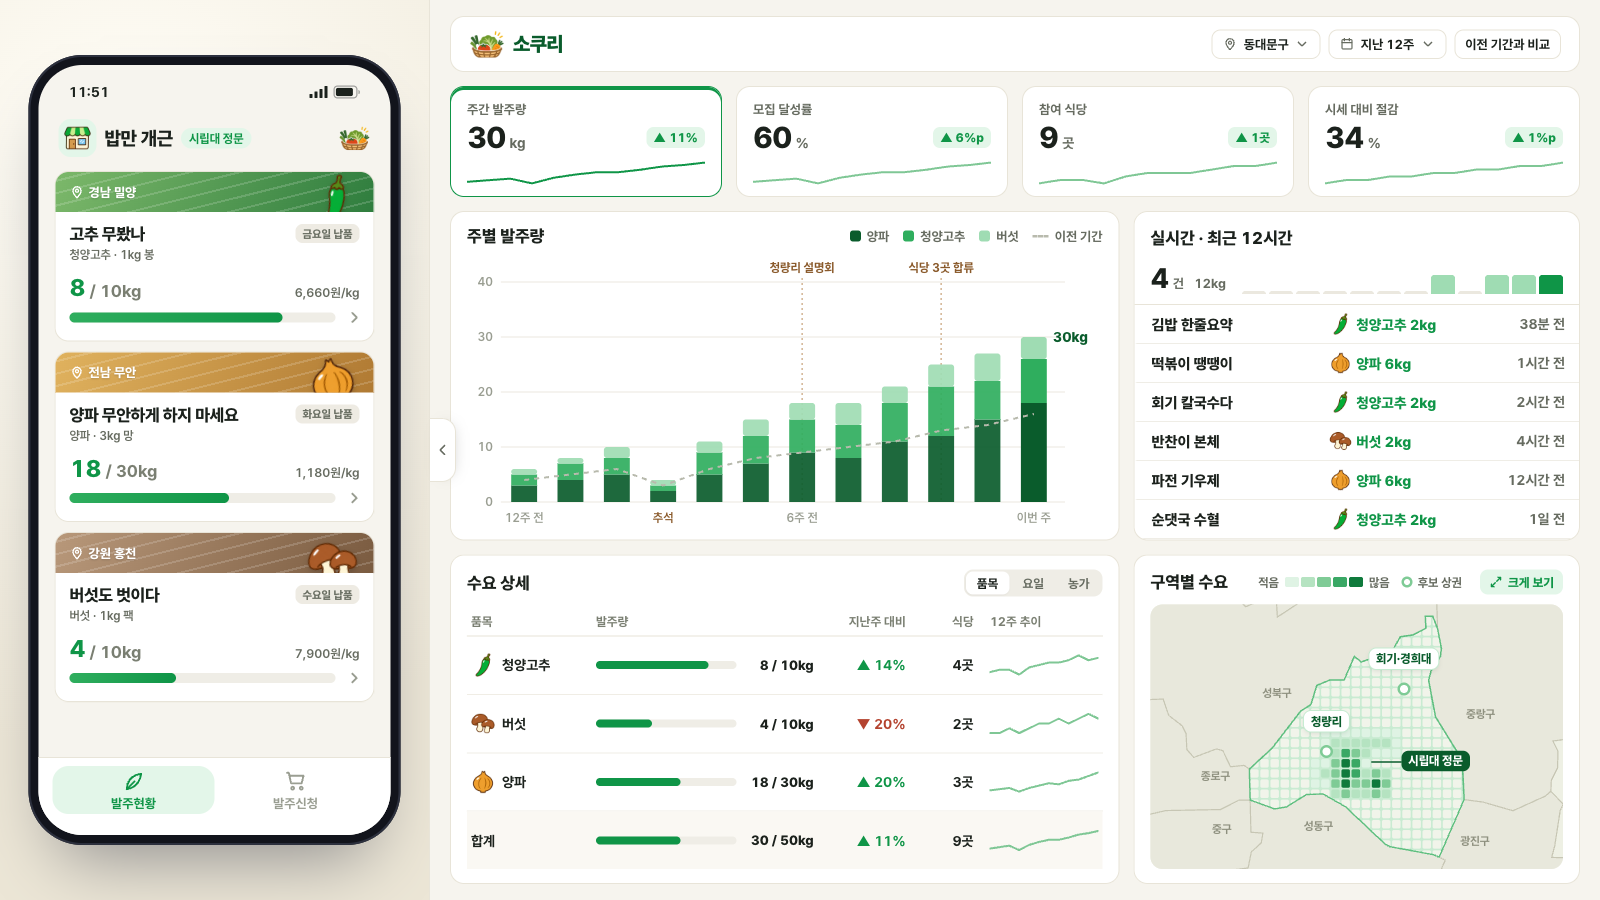
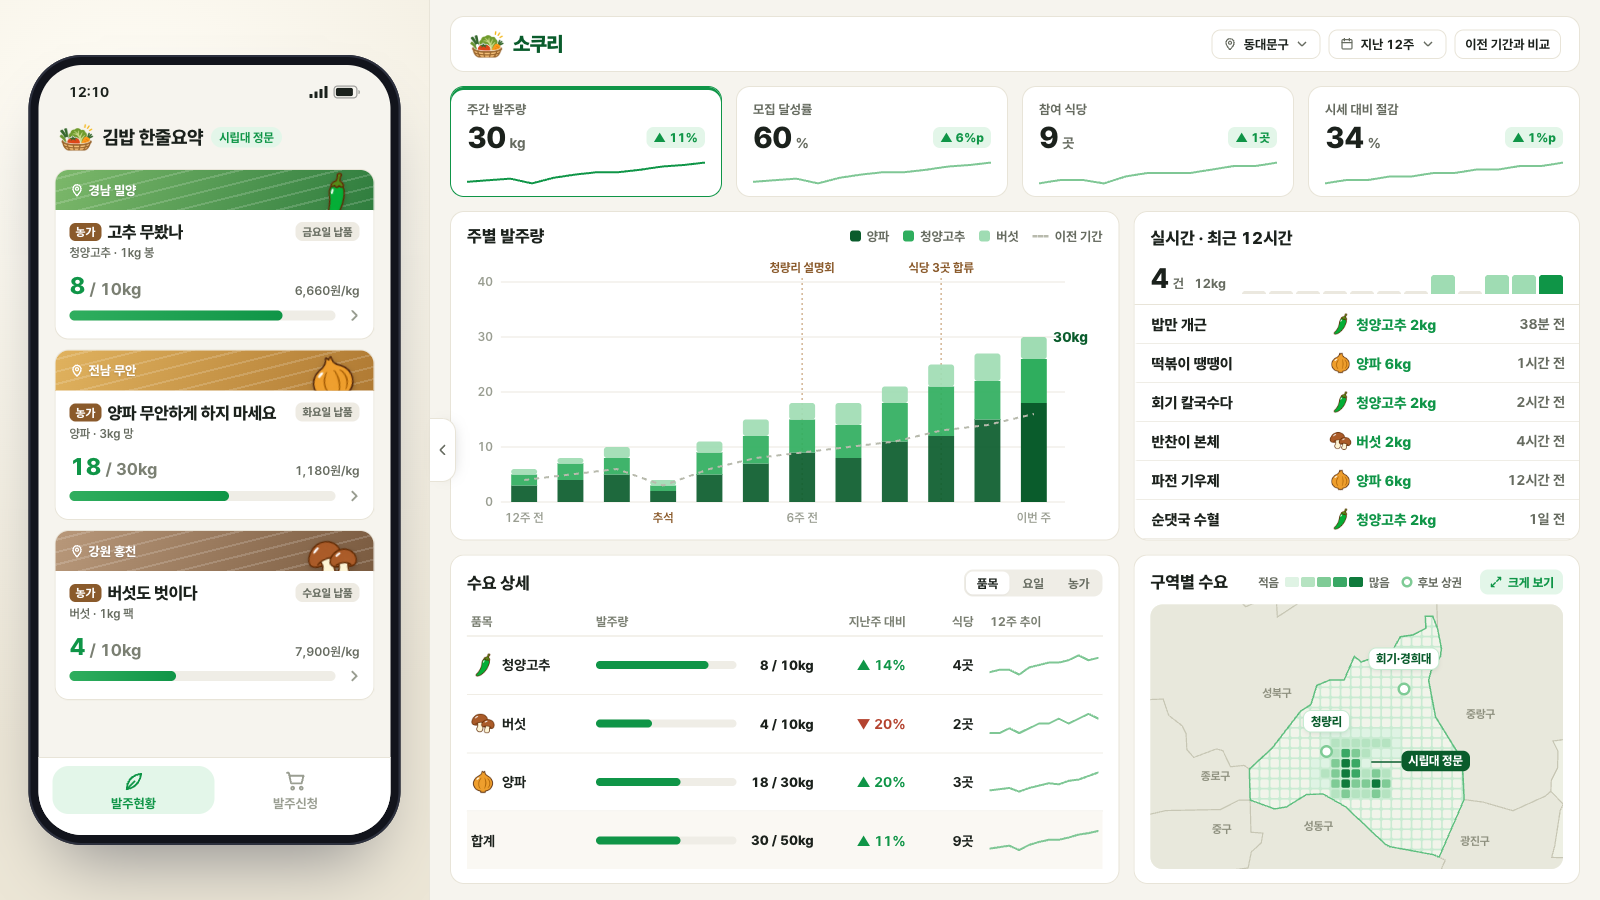
폰 머리: 가게 아이콘 대신 소쿠리 로고를 왼쪽에

diff --git a/index.html b/index.html
@@ -82,7 +82,7 @@ body.loading .card::after{content:"";position:absolute;inset:14px;border-radius:
 .sic svg{display:block;fill:var(--ink)}
 .phead{display:flex;align-items:center;gap:8px;padding:4px 20px 12px}
 .phead h2{font-size:19px;font-weight:800;letter-spacing:-.3px}
-.phead .papp{margin-left:auto;width:32px;height:32px;display:block;user-select:none}
+.phead .plogo{width:36px;height:36px;display:block;flex:none;user-select:none}
 .phead .av{width:38px;height:38px;border-radius:12px}
 .phead .av img{width:28px;height:28px}
 .panes{flex:1;min-height:0;overflow:hidden;overflow:clip;position:relative}
@@ -518,9 +518,8 @@ body.loading .card::after{content:"";position:absolute;inset:14px;border-radius:
  <div class="phone"><div class="screen" id="screen">
   <div class="sbar"><span id="ptime">9:41</span><span class="sic"><svg viewBox="0 0 18 12" width="18" height="12"><rect x="0" y="8" width="3" height="4" rx=".8"/><rect x="5" y="5.5" width="3" height="6.5" rx=".8"/><rect x="10" y="3" width="3" height="9" rx=".8"/><rect x="15" y="0" width="3" height="12" rx=".8"/></svg><svg viewBox="0 0 27 13" width="27" height="13"><rect x=".6" y=".6" width="22.8" height="11.8" rx="3.4" fill="none" stroke="#15181a" stroke-opacity=".4" stroke-width="1.2"/><rect x="2.4" y="2.4" width="17" height="8.2" rx="2"/><path d="M25 4.4v4.2c.9-.3 1.4-1.1 1.4-2.1s-.5-1.8-1.4-2.1z" fill-opacity=".45"/></svg></span></div>
   <div class="phead">
-   <span class="av"><img src="img/store.png" alt="" draggable="false"></span>
+   <img class="plogo" src="img/logo.png" alt="소쿠리" draggable="false">
    <h2 id="meName"></h2><span class="chip" id="meArea"></span>
-   <img class="papp" src="img/logo.png" alt="소쿠리" draggable="false">
   </div>
   <div class="panes"><div class="track" id="track">
    <div class="pane farms show" id="p2">
